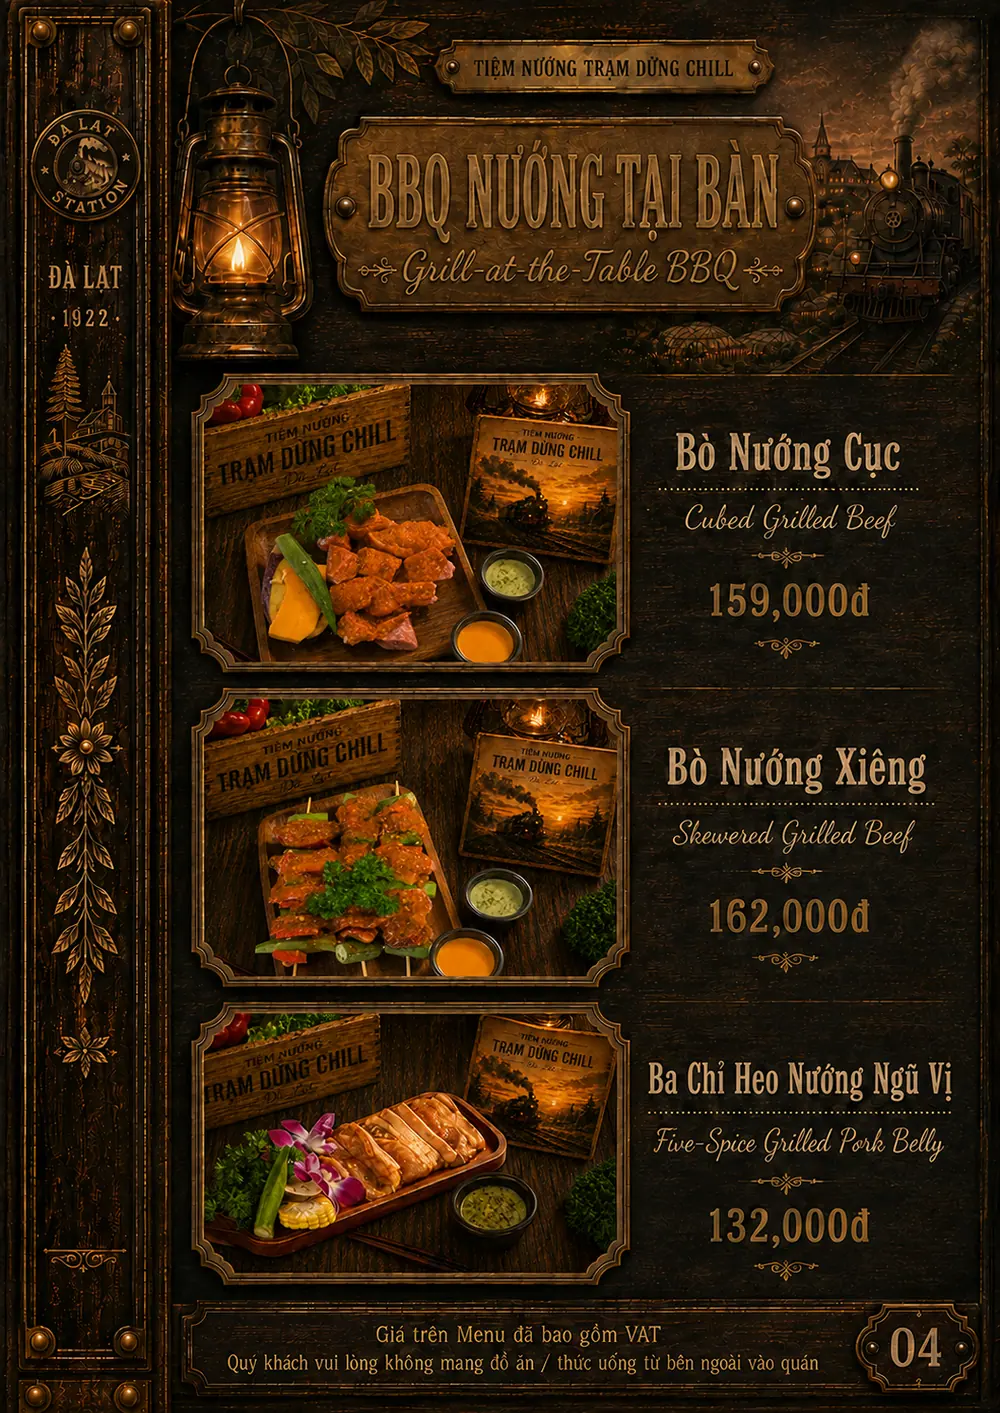
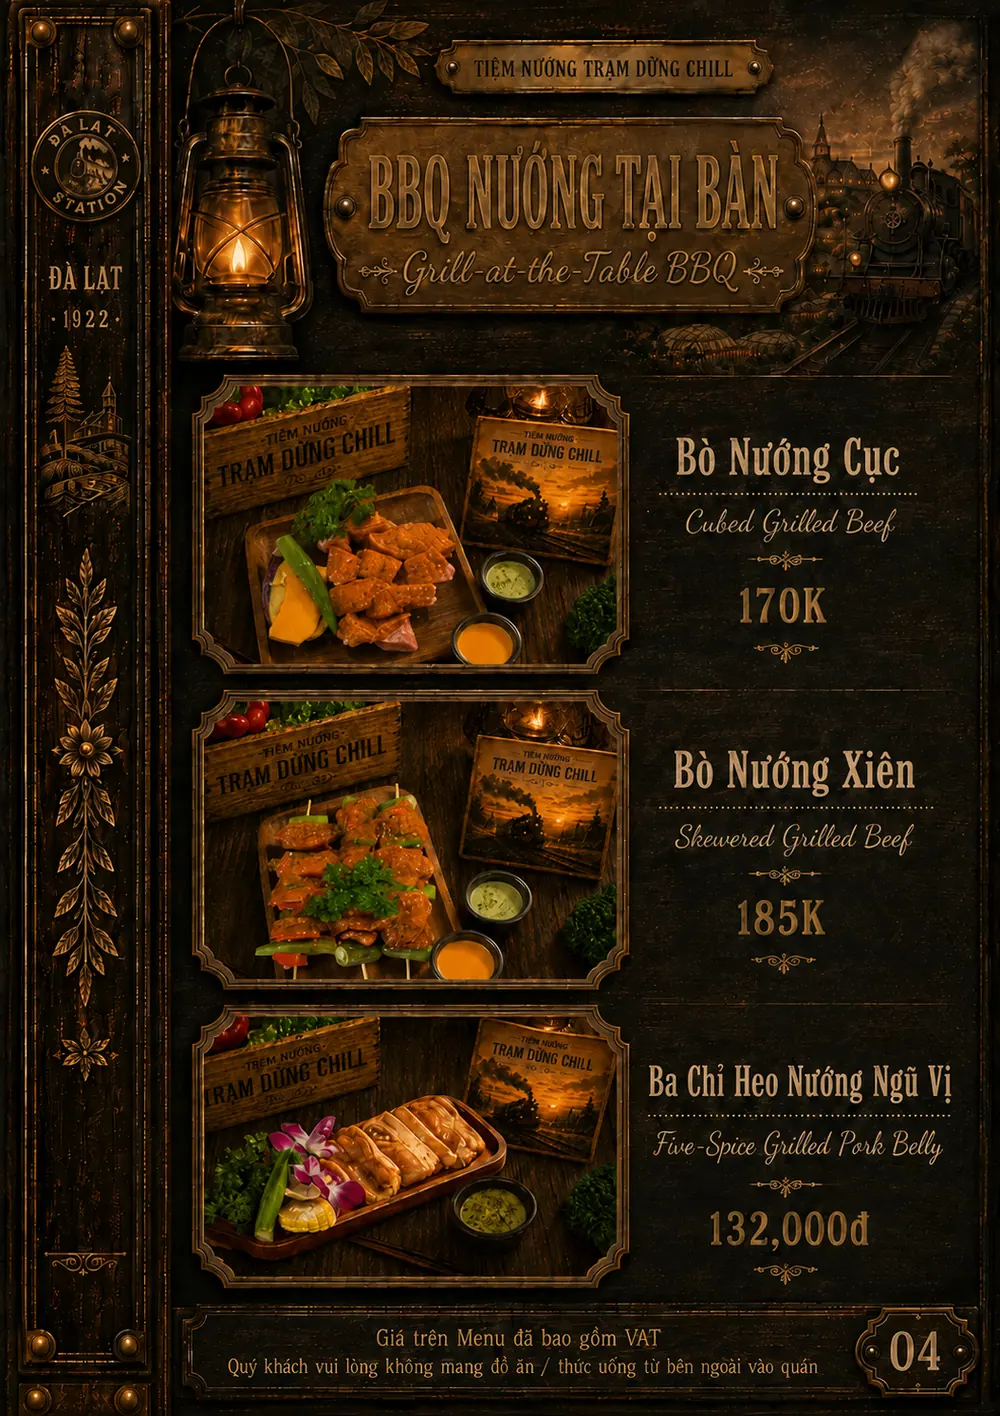
fix(menu): trang 5 tang gia 2 mon bo — Nuong Cuc 159K->170K, Nuong Xien 162K->185K
Sep Tuan gui ban chup moi trang 5 (BBQ nuong tai ban), doc tren anh:
  Bo Nuong Cuc   159.000d -> 170.000d
  Bo Nuong Xien  162.000d -> 185.000d
  Ba Chi Heo Ngu Vi giu 132.000d
Da phong to tung vung gia de doc chac, khong doan tu anh nen.

Sua dung 2 dong trong data/menu-data.js theo so dong, KHONG thay chuoi toan
file: "162K" con la gia Ca Tam Nuong o dong 58 va rai rac trong blog — thay
mu ca loat la doi nham gia mon khac.

JSON-LD Menu va khoi noscript MENU_STATIC da nhan gia moi (170000 / 185000),
day la 2 cho duy nhat may doc duoc gia sau khi bo bang gia text 04/08.

Khong bump CACHE_NAME: URL anh mang van tay ?v=<md5>.
Kiem tra: check-facts SACH, seo-geo-verify 32/32 PASS.

diff --git a/menu.html b/menu.html
@@ -221,7 +221,7 @@
                     "name": "Bò Nướng Cục",
                     "offers": {
                         "@type": "Offer",
-                        "price": "159000",
+                        "price": "170000",
                         "priceCurrency": "VND",
                         "availability": "https://schema.org/InStock"
                     }
@@ -231,7 +231,7 @@
                     "name": "Bò Nướng Xiên",
                     "offers": {
                         "@type": "Offer",
-                        "price": "162000",
+                        "price": "185000",
                         "priceCurrency": "VND",
                         "availability": "https://schema.org/InStock"
                     }
@@ -1226,10 +1226,10 @@
                     <figcaption class="flip-page-caption">Trang 4/26 — Best Seller</figcaption>
                 </figure>
                 <figure class="flip-page" data-page="5" data-group="nuong" data-group-label="BBQ Nướng Tại Bàn" data-group-i18n="flip.group.bbq">
-                    <img src="assets/menu-pages/menu-quan-nuong-da-lat-05-bbq-nuong-tai-ban-bo-nuong-cuc-bo-xien-1000.webp?v=a53b6cc9"
-                         srcset="assets/menu-pages/menu-quan-nuong-da-lat-05-bbq-nuong-tai-ban-bo-nuong-cuc-bo-xien-560.webp?v=15422727 560w, assets/menu-pages/menu-quan-nuong-da-lat-05-bbq-nuong-tai-ban-bo-nuong-cuc-bo-xien-1000.webp?v=a53b6cc9 1000w"
+                    <img src="assets/menu-pages/menu-quan-nuong-da-lat-05-bbq-nuong-tai-ban-bo-nuong-cuc-bo-xien-1000.webp?v=402dbd3c"
+                         srcset="assets/menu-pages/menu-quan-nuong-da-lat-05-bbq-nuong-tai-ban-bo-nuong-cuc-bo-xien-560.webp?v=a71da600 560w, assets/menu-pages/menu-quan-nuong-da-lat-05-bbq-nuong-tai-ban-bo-nuong-cuc-bo-xien-1000.webp?v=402dbd3c 1000w"
                          sizes="(min-width: 900px) 46vw, 92vw"
-                         width="1055" height="1491"
+                         width="1054" height="1492"
                          alt="Thực đơn BBQ nướng tại bàn Đà Lạt: bò nướng cục, bò nướng xiên, ba chỉ heo nướng ngũ vị"
                          loading="lazy" decoding="async">
                     <figcaption class="flip-page-caption">Trang 5/26 — BBQ Nướng Tại Bàn</figcaption>
@@ -1457,8 +1457,8 @@
 </ul>
 <h3>BBQ Nướng Tại Bàn</h3>
 <ul>
-<li>Bò Nướng Cục — 159.000đ</li>
-<li>Bò Nướng Xiên — 162.000đ</li>
+<li>Bò Nướng Cục — 170.000đ</li>
+<li>Bò Nướng Xiên — 185.000đ</li>
 <li>Ba Chỉ Heo Hàn Quốc — 170.000đ</li>
 <li>Ba Chỉ Heo Nướng Ngũ Vị — 132.000đ</li>
 <li>Sườn Que Nướng — 155.000đ</li>

diff --git a/data/menu-data.js b/data/menu-data.js
@@ -44,8 +44,8 @@ const MENU_ITEMS = {
     ],
 
     nuong: [
-        { name: 'Bò Nướng Cục', price: '159K' },
-        { name: 'Bò Nướng Xiên', price: '162K' },
+        { name: 'Bò Nướng Cục', price: '170K' },
+        { name: 'Bò Nướng Xiên', price: '185K' },
         { name: 'Ba Chỉ Heo Hàn Quốc', price: '170K' },
         { name: 'Ba Chỉ Heo Nướng Ngũ Vị', price: '132K' },
         { name: 'Sườn Que Nướng', price: '155K' },
